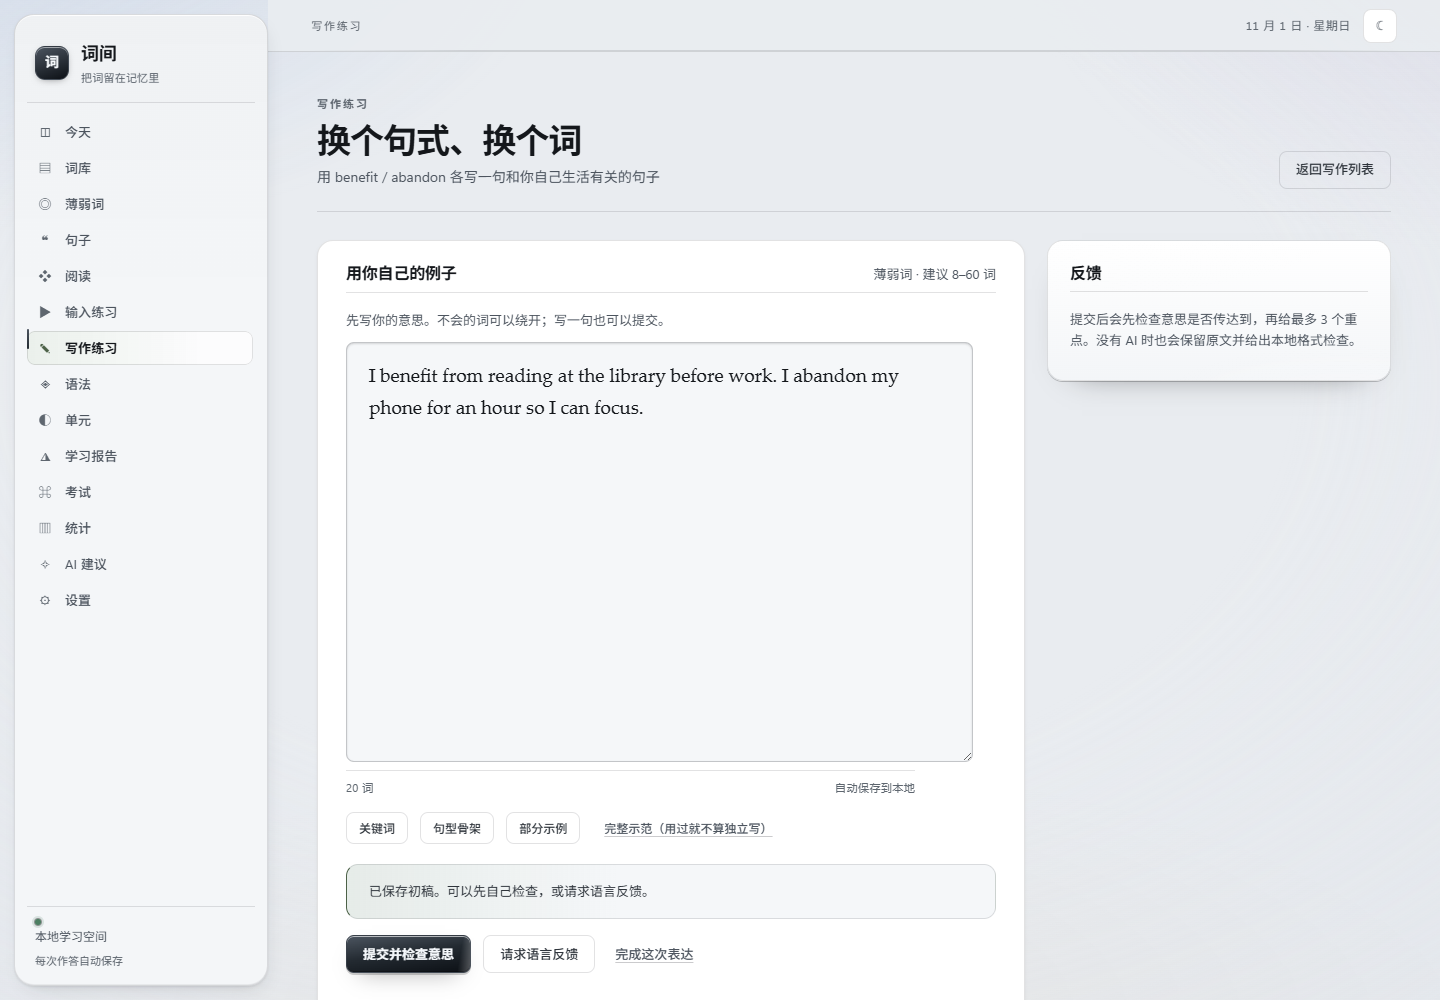
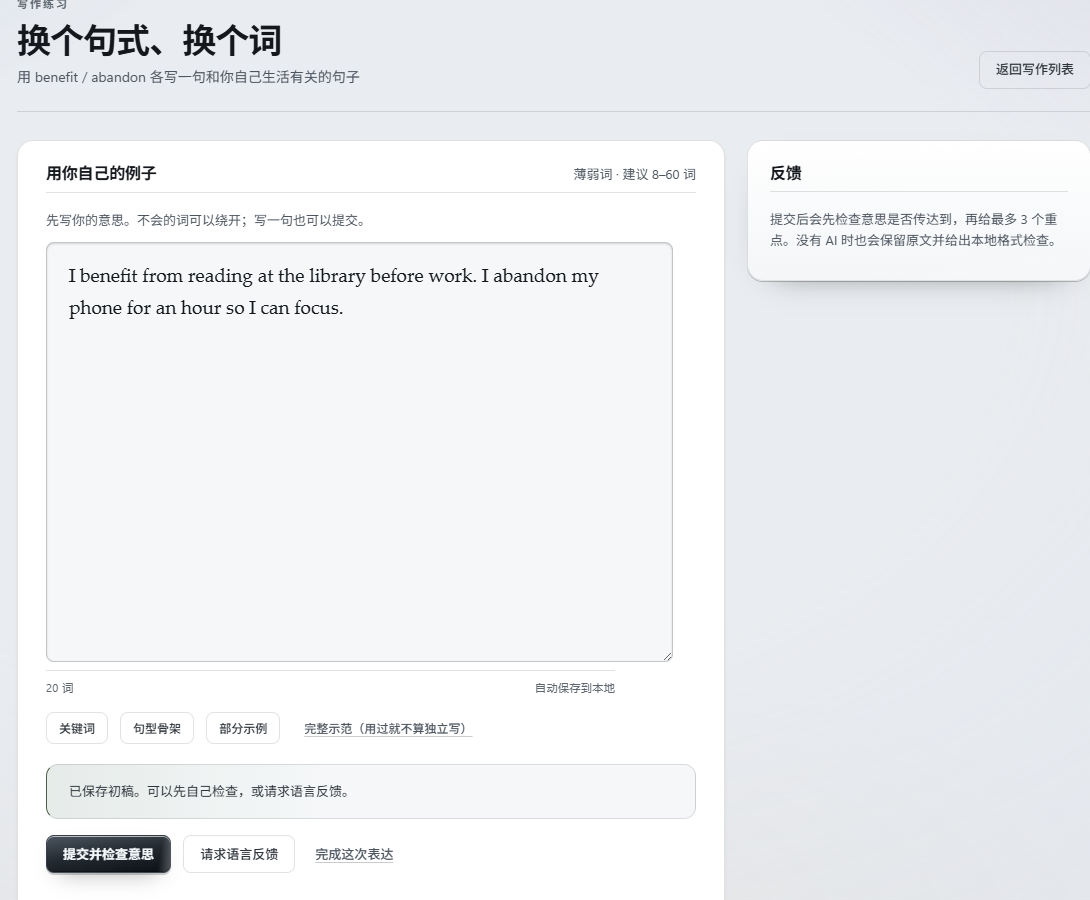
docs(readme): 界面图裁到可读尺寸，首屏补快速入口
GitHub 内容宽度约 880px，原来的 1440px 全屏截图缩到 61%，小字难以辨认。改为裁切主任务区/答题卡/正文+帮助面板/编辑区，宽度 880–1100px；首屏增加快速开始、功能、界面三个锚点。

diff --git a/README.md b/README.md
@@ -8,6 +8,8 @@
 
 本地优先 · 无需账号 · AI 可选 · 当前发布面向 Windows 桌面
 
+[快速开始](#快速开始windows) · [功能](#你可以用它做什么) · [界面](#界面)
+
 ![词间今天页面](screenshots/readme/today.png)
 
 *今天：可用时间、下一项任务和整条学习路线都在同一屏。*
